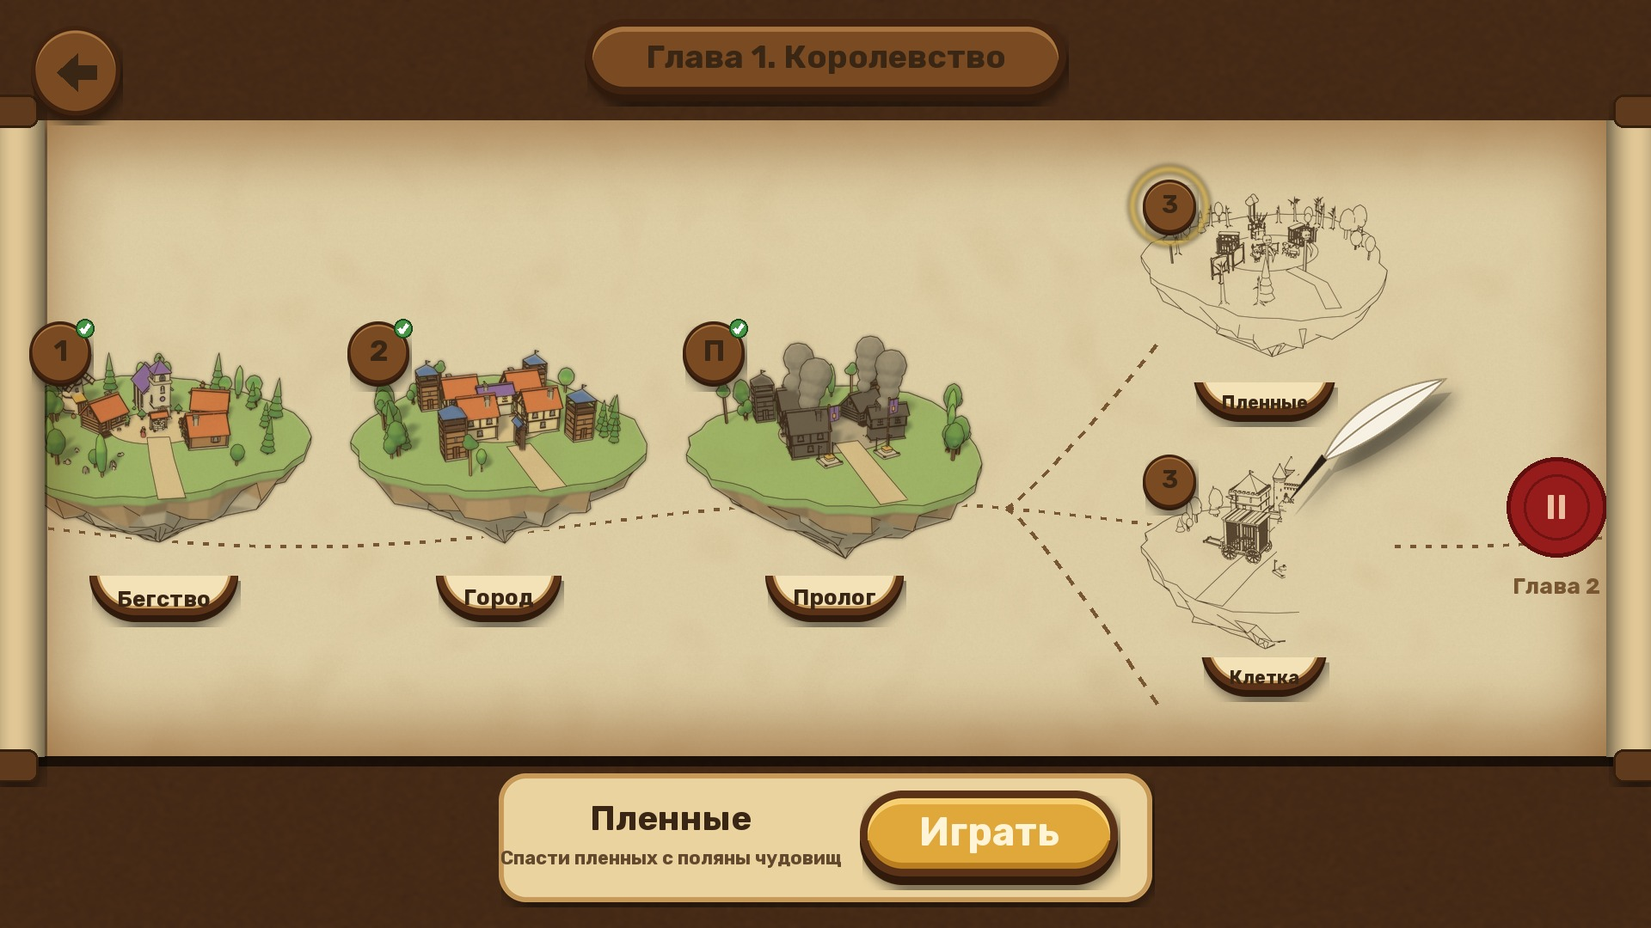
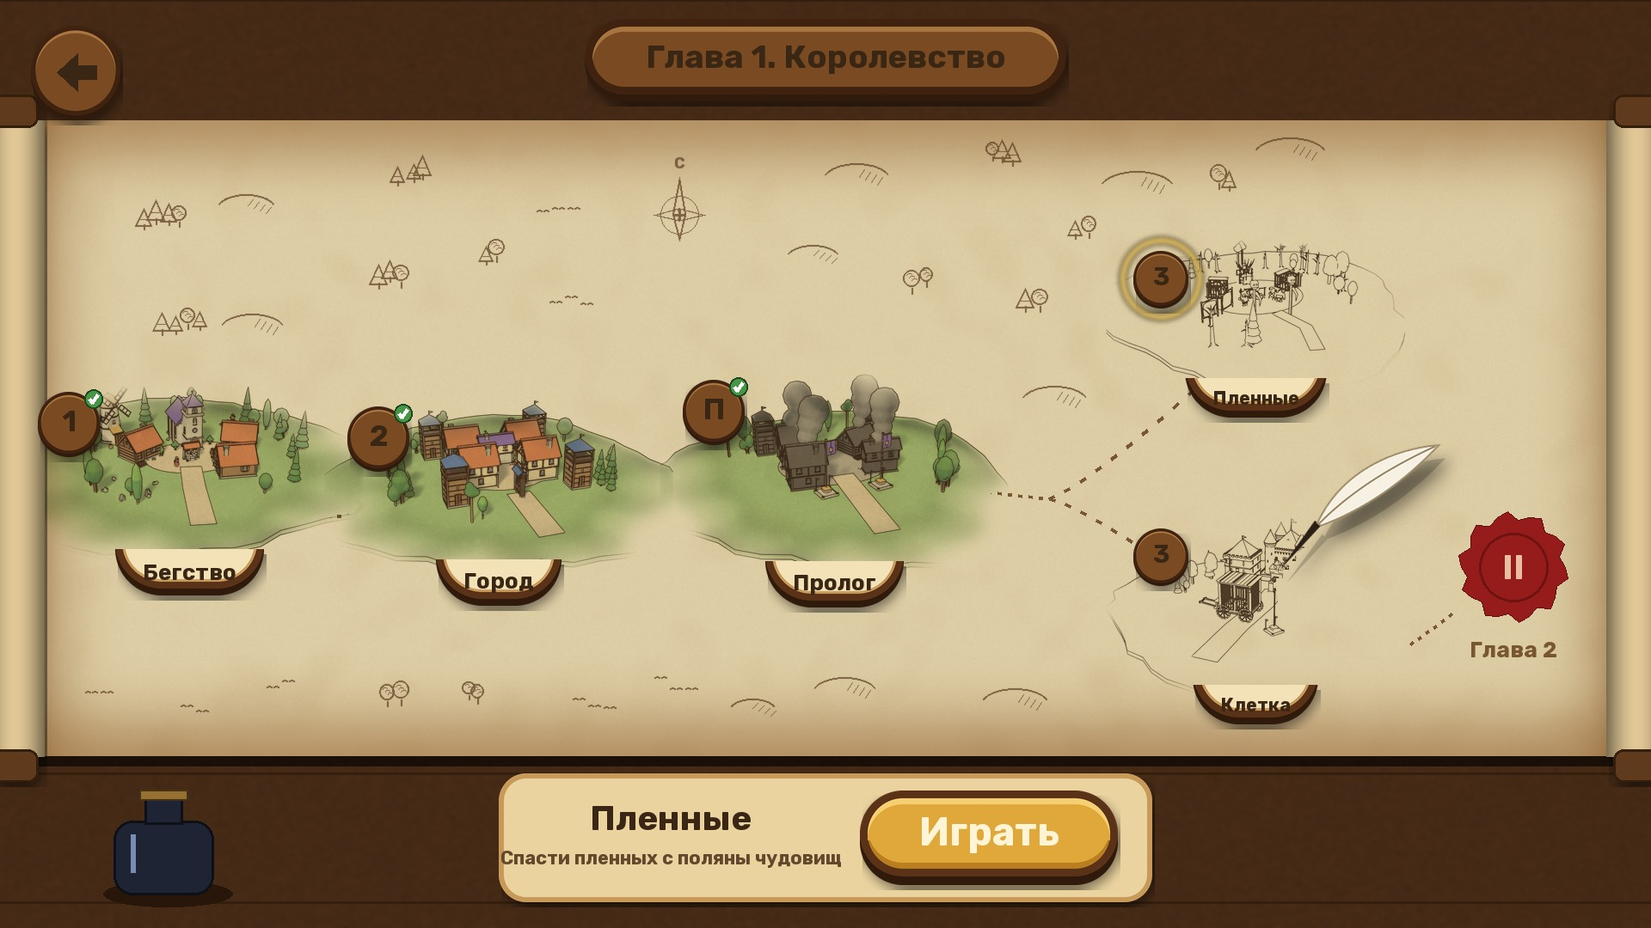
Campaign level picker: scroll concept v2 -- flat scenes bleeding into the parchment, watercolour + ink, doodles, seal, inkwell

diff --git a/Tools/campaign/campaign_levels_overlay.py b/Tools/campaign/campaign_levels_overlay.py
@@ -63,12 +63,11 @@ def text_c(d, xy, s, size, fill=INK):
     d.text((xy[0] - (r - l) / 2 - l, xy[1] - (b - t) / 2 - t), s, font=f, fill=fill)
 
 
-def load(ddir, key):
+def load(ddir, key, suffix=""):
     """The colour render (RGBA) and its ink twin, both cropped to the diorama."""
-    col = Image.open(os.path.join(ddir, f"campaign_{key}.png")).convert('RGBA')
-    ink = Image.open(os.path.join(ddir, f"campaign_{key}_ink.png")).convert('L')
+    col = Image.open(os.path.join(ddir, f"campaign_{key}{suffix}.png")).convert('RGBA')
+    ink = Image.open(os.path.join(ddir, f"campaign_{key}{suffix}_ink.png")).convert('L')
     box = col.getchannel('A').point(lambda a: 255 if a > 8 else 0).getbbox()
-    lines = ImageOps.invert(ink).crop(box)
     pad = 20
     box = (box[0] - pad, box[1] - pad, box[2] + pad, box[3] + pad)
     return col.crop(box), ImageOps.invert(ink).crop(box)
@@ -155,107 +154,215 @@ def rod(h):
     return im
 
 
-def watercolour(col, lines, paper):
-    """The colour render laid on the paper as a wash, then the ink over it."""
-    rgb = col.convert('RGB')
-    rgb = ImageEnhance.Color(rgb).enhance(0.85)
-    rgb = rgb.filter(ImageFilter.GaussianBlur(1.2))
-    rgb = Image.blend(rgb, Image.new('RGB', rgb.size, (255, 250, 235)), 0.18)
-    a = col.getchannel('A').filter(ImageFilter.GaussianBlur(2))
-    jitter = Image.effect_noise(col.size, 90).filter(ImageFilter.GaussianBlur(3))
-    a = ImageChops.multiply(a, jitter.point(lambda v: 255 if v > 70 else int(v * 3.2)))
-    washed = ImageChops.multiply(paper, rgb)
-    out = Image.composite(washed, paper, a)
-    return inked(out, lines)
+def fade_mask(size, seed, inner=0.62):
+    """An oval vignette with a ragged, wet-paper edge: the scene bleeds out into the parchment."""
+    w, h = size
+    rnd = random.Random(seed)
+    m = Image.new('L', size, 0)
+    d = ImageDraw.Draw(m)
+    steps = 24
+    for k in range(steps, 0, -1):          # concentric ragged ovals, brighter inwards
+        t = k / steps
+        rx, ry = w / 2 * (inner + (1 - inner) * t), h / 2 * (inner + (1 - inner) * t)
+        pts = []
+        for i in range(90):
+            a = i / 90 * 2 * math.pi
+            j = 1 + 0.05 * math.sin(a * 5 + seed) + 0.04 * math.sin(a * 11 + seed * 2) + rnd.uniform(-0.015, 0.015)
+            pts.append((w / 2 + math.cos(a) * rx * j, h / 2 + math.sin(a) * ry * j))
+        d.polygon(pts, fill=int(255 * (1 - t) ** 0.7 + 0.5) if k < steps else 0)
+    ImageDraw.Draw(m)
+    m = m.filter(ImageFilter.GaussianBlur(6))
+    core = Image.new('L', size, 0)              # the middle fully opaque
+    ImageDraw.Draw(core).ellipse((w * (0.5 - inner / 2), h * (0.5 - inner / 2), w * (0.5 + inner / 2), h * (0.5 + inner / 2)), fill=255)
+    m = ImageChops.lighter(m, core.filter(ImageFilter.GaussianBlur(20)))
+    grain = Image.effect_noise(size, 70).filter(ImageFilter.GaussianBlur(1.5))
+    return ImageChops.multiply(m, grain.point(lambda v: min(255, 150 + v)))
 
 
-def inked(paper, lines, upto=None):
-    l = lines
+def ink_layer(lines, mask, upto=None):
+    l = ImageChops.multiply(lines, mask.point(lambda v: min(255, v * 2)))
     if upto is not None:     # drawn only so far (left of x), a ragged edge
         m = Image.new('L', l.size, 0)
         d = ImageDraw.Draw(m)
-        for y in range(0, l.height, 6):
-            d.rectangle((0, y, upto + int(14 * math.sin(y / 23.0)) + random.randint(-6, 6), y + 6), fill=255)
+        for y in range(0, l.height, 5):
+            d.rectangle((0, y, upto + int(16 * math.sin(y / 19.0)) + random.randint(-5, 5), y + 5), fill=255)
         l = ImageChops.multiply(l, m)
-    ink = Image.new('RGB', paper.size, (52, 34, 18))
-    return Image.composite(ink, paper, l.point(lambda v: min(255, int(v * 1.25))))
+    return l.point(lambda v: min(255, int(v * 1.35)))
+
+
+def put_ink(paper, alpha, at, colour=(52, 34, 18)):
+    region = paper.crop((at[0], at[1], at[0] + alpha.width, at[1] + alpha.height))
+    region = Image.composite(Image.new('RGB', alpha.size, colour), region, alpha)
+    paper.paste(region, at)
+
+
+def wash(col, mask, paper_region):
+    """The colour render as a watercolour wash: flattened, softened, granulated, multiplied into the paper."""
+    rgb = col.convert('RGB').filter(ImageFilter.MedianFilter(5))
+    rgb = ImageEnhance.Color(rgb).enhance(0.8)
+    rgb = Image.blend(rgb, Image.new('RGB', rgb.size, (255, 248, 228)), 0.2)
+    gran = Image.effect_noise(col.size, 40).filter(ImageFilter.GaussianBlur(0.8))
+    rgb = ImageChops.multiply(rgb, Image.merge('RGB', [gran.point(lambda v: 225 + v // 8)] * 3))
+    washed = ImageChops.multiply(paper_region, rgb)
+    a = ImageChops.multiply(mask, col.getchannel('A'))
+    # the wash pools darker at its edge, as real watercolour dries
+    rim = ImageChops.subtract(a.filter(ImageFilter.GaussianBlur(3)), a.filter(ImageFilter.GaussianBlur(10)))
+    washed = ImageChops.multiply(washed, Image.merge('RGB', [ImageOps.invert(rim.point(lambda v: min(90, v * 2)))] * 3))
+    return Image.composite(washed, paper_region, a)
+
+
+def doodles(paper, keep_out, seed=4):
+    """Little ink drawings in the empty paper: tree clumps, hills, birds, a compass rose."""
+    rnd = random.Random(seed)
+    lay = Image.new('L', paper.size, 0)
+    d = ImageDraw.Draw(lay)
+
+    def free(x, y, r=40):
+        return all(keep_out.getpixel((min(max(int(x + dx), 0), paper.width - 1), min(max(int(y + dy), 0), paper.height - 1))) < 20
+                   for dx in (-r, 0, r) for dy in (-r, 0, r))
+
+    def tree(x, y, s):
+        if rnd.random() < 0.5:     # a pine
+            d.polygon([(x, y - 26 * s), (x - 10 * s, y - 4 * s), (x + 10 * s, y - 4 * s)], outline=255, width=2)
+            d.line((x - 6 * s, y - 12 * s, x + 6 * s, y - 12 * s), fill=255, width=1)
+        else:                      # a round tree
+            d.ellipse((x - 9 * s, y - 26 * s, x + 9 * s, y - 8 * s), outline=255, width=2)
+            for k in range(3):
+                d.arc((x - 6 * s + k * 3, y - 22 * s + k * 3, x + 2 * s + k * 3, y - 14 * s + k * 3), 200, 320, fill=255, width=1)
+        d.line((x, y - 6 * s, x, y), fill=255, width=2)
+
+    def hill(x, y, w):
+        d.arc((x - w, y - w * 0.5, x + w, y + w * 0.5), 200, 340, fill=255, width=2)
+        for k in range(4):        # hatching on the shady side
+            hx = x + w * 0.25 + k * 7
+            d.line((hx, y - w * 0.32 + k * 3, hx - 6, y - w * 0.1 + k * 3), fill=255, width=1)
+
+    used = []
+    for _ in range(400):
+        x, y = rnd.randint(60, paper.width - 260), rnd.randint(40, paper.height - 40)
+        if not free(x, y, 46) or any(math.hypot(x - ux, y - uy) < 90 for ux, uy in used):
+            continue
+        used.append((x, y))
+        kind = rnd.random()
+        if kind < 0.5:
+            for k in range(rnd.randint(2, 4)):
+                tree(x + k * 14 + rnd.randint(-3, 3), y + rnd.randint(-4, 4), rnd.uniform(0.8, 1.1))
+        elif kind < 0.82:
+            hill(x, y, rnd.randint(26, 44))
+        else:
+            for k in range(rnd.randint(2, 3)):     # birds
+                bx, by = x + k * 18, y + rnd.randint(-8, 8)
+                d.arc((bx - 8, by - 4, bx, by + 4), 200, 340, fill=255, width=2)
+                d.arc((bx, by - 4, bx + 8, by + 4), 200, 340, fill=255, width=2)
+    # the compass rose
+    cx, cy = 770, 110
+    for a, r in ((0, 44), (90, 30), (180, 30), (270, 30)):
+        rad = math.radians(a - 90)
+        tip = (cx + math.cos(rad) * r, cy + math.sin(rad) * r)
+        side1 = (cx + math.cos(rad + 1.57) * 8, cy + math.sin(rad + 1.57) * 8)
+        side2 = (cx + math.cos(rad - 1.57) * 8, cy + math.sin(rad - 1.57) * 8)
+        d.polygon([tip, side1, (cx, cy), side2], outline=255, width=2)
+    d.ellipse((cx - 22, cy - 22, cx + 22, cy + 22), outline=255, width=1)
+    text_c(d, (cx, cy - 60), "С", 18, fill=255)
+    put_ink(paper, lay.filter(ImageFilter.GaussianBlur(0.4)).point(lambda v: int(v * 0.75)), (0, 0), (92, 62, 34))
 
 
 def scroll(ddir, out):
     random.seed(7)
     base = Image.new('RGBA', (W, H), (0, 0, 0, 255))
-    # the table under the scroll: dark wood
+    # the table under the scroll: dark wood planks
     wood = Image.effect_noise((W // 4, H), 40).resize((W, H)).filter(ImageFilter.GaussianBlur(2))
     wood = ImageChops.multiply(Image.merge('RGB', [wood.point(lambda v: 150 + v // 3)] * 3), Image.new('RGB', (W, H), (92, 56, 30)))
+    wd = ImageDraw.Draw(wood)
+    for y in range(0, H, 150):
+        wd.line((0, y, W, y), fill=(52, 30, 14), width=3)
     base.paste(wood, (0, 0))
     top, bot = 140, 880
     ph = bot - top
     paper = parchment(W - 40, ph)
-    road = Image.new('L', paper.size, 0)
-    d0 = ImageDraw.Draw(road)
-    # the road between the scenes, dashed in ink
-    xs = [150, 520, 900, 1320]
-    path = []
-    for x in range(0, W - 40, 6):
-        y = 470 + 26 * math.sin(x / 210.0)
-        if x > 1180:
-            pass
-        path.append((x, y))
-    for i in range(0, len(path) - 1, 3):
-        d0.line((path[i], path[i + 1]), fill=255, width=4)
-    # the fork: two branches up and down to 3a / 3b
-    for sgn in (-1, 1):
-        pts = [(1150 + t * 7, 470 + 26 * math.sin((1150 + t * 7) / 210.0) + sgn * (t * 7) ** 1.15 * 0.55) for t in range(26)]
-        for i in range(0, len(pts) - 1, 2):
-            d0.line((pts[i], pts[i + 1]), fill=255, width=4)
-    scenes = [("level_1", 170, 400, 360, "done"), ("level_2", 560, 400, 360, "done"), ("prologue", 950, 400, 360, "done"),
-              ("level_3a", 1450, 200, 300, "open"), ("level_3b", 1450, 520, 300, "drawing")]
-    covered = Image.new('L', paper.size, 0)
+    scenes = [("level_1", 200, 410, 420, "done"), ("level_2", 560, 425, 420, "done"), ("prologue", 950, 410, 420, "done"),
+              ("level_3a", 1440, 230, 360, "open"), ("level_3b", 1440, 570, 360, "drawing")]
     meta = {k: (n, name, line) for k, n, name, line in LEVELS}
-    pen_at = None
+    keep = Image.new('L', paper.size, 0)
+    placed = []
     for key, cx, cy, w, state in scenes:
-        col, lines = load(ddir, key)
+        col, lines = load(ddir, key, "_flat")
         col, lines = fit(col, w), fit(lines.convert('RGB'), w).convert('L')
-        x0, y0 = cx - w // 2, cy - col.height // 2 - 20
-        region = paper.crop((x0, y0, x0 + w, y0 + col.height))
+        x0, y0 = cx - w // 2, cy - col.height // 2
+        placed.append((key, x0, y0, col, lines, state, fade_mask(col.size, sum(map(ord, key)))))
+        ImageDraw.Draw(keep).rectangle((x0 + 20, y0, x0 + w - 20, y0 + col.height + 70), fill=255)
+    ImageDraw.Draw(keep).ellipse((690, 30, 850, 190), fill=255)     # the compass rose
+    ImageDraw.Draw(keep).ellipse((1640, 410, 1840, 630), fill=255)  # the seal
+    # the road between the scenes: dashed ink, then the fork up and down, and on east to the seal
+    road = Image.new('L', paper.size, 0)
+    rd = ImageDraw.Draw(road)
+    main = [(x, 440 + 22 * math.sin(x / 190.0)) for x in range(0, 1200, 4)]
+    up = [(1200 + t * 6, main[-1][1] - (t * 6) ** 1.2 * 0.27) for t in range(40)]
+    dn = [(1200 + t * 6, main[-1][1] + (t * 6) ** 1.2 * 0.21) for t in range(40)]
+    east = [(1620 + t * 3, 610 - t * 2.2) for t in range(20)]
+    for line in (main, up, dn, east):
+        for i in range(0, len(line) - 2, 3):
+            rd.line((line[i], line[i + 1]), fill=255, width=4)
+    for key, x0, y0, col, lines, state, fm in placed:     # no road over a scene
+        hole = Image.new('L', paper.size, 0)
+        hole.paste(fm.point(lambda v: 255 if v > 60 else 0), (x0, y0))
+        road = ImageChops.subtract(road, hole)
+    put_ink(paper, road, (0, 0), (120, 86, 50))
+    doodles(paper, ImageChops.lighter(keep, road.filter(ImageFilter.MaxFilter(31))))
+    pen_at = None
+    for key, x0, y0, col, lines, state, fm in placed:
+        region = paper.crop((x0, y0, x0 + col.width, y0 + col.height))
         if state == "done":
-            pic = watercolour(col, lines, region)
+            region = wash(col, fm, region)
+            put_ink(region, ink_layer(lines, fm), (0, 0))
         elif state == "open":
-            pic = inked(region, lines)
+            put_ink(region, ink_layer(lines, fm), (0, 0))
         else:
-            upto = int(w * 0.58)
-            pic = inked(region, lines, upto)
-            pen_at = (x0 + upto + 20, y0 + col.height * 0.42)
-        paper.paste(pic, (x0, y0))
-        covered.paste(col.getchannel('A').filter(ImageFilter.MaxFilter(9)), (x0, y0))
-    road = ImageChops.subtract(road, covered)
-    paper = Image.composite(Image.new('RGB', paper.size, (120, 86, 50)), paper, road)
-    # the chapter to come: a blank with a wax seal, faded edge of the scroll
-    sx, sy = 1790, 450
-    ImageDraw.Draw(paper).ellipse((sx - 58, sy - 58, sx + 58, sy + 58), fill=(150, 28, 28), outline=(96, 14, 14), width=5)
-    ImageDraw.Draw(paper).ellipse((sx - 38, sy - 38, sx + 38, sy + 38), outline=(110, 18, 18), width=3)
-    text_c(ImageDraw.Draw(paper), (sx, sy), "II", 40, fill=(236, 190, 160))
-    text_c(ImageDraw.Draw(paper), (sx, sy + 92), "Глава 2", 26, fill=(120, 86, 50))
-    # paper on the table, with a shadow, and the rolled ends
+            upto = int(col.width * 0.6)
+            put_ink(region, ink_layer(lines, fm, upto), (0, 0))
+            pen_at = (x0 + upto + 10, y0 + col.height * 0.45)
+        paper.paste(region, (x0, y0))
+    # the chapter to come: a wax seal at the road's end
+    sx, sy = 1740, 520
+    pd = ImageDraw.Draw(paper)
+    blob = [(sx + math.cos(a / 30 * 6.283) * (60 + 6 * math.sin(a * 2.1)), sy + math.sin(a / 30 * 6.283) * (60 + 6 * math.sin(a * 2.1)))
+            for a in range(30)]
+    pd.polygon(blob, fill=(150, 28, 28), outline=(96, 14, 14))
+    pd.ellipse((sx - 40, sy - 40, sx + 40, sy + 40), outline=(110, 18, 18), width=3)
+    text_c(pd, (sx, sy), "II", 40, fill=(236, 190, 160))
+    text_c(pd, (sx, sy + 96), "Глава 2", 26, fill=(120, 86, 50))
+    # the scroll's curl: shade near both rolled ends
+    curl = Image.new('L', paper.size, 0)
+    cd = ImageDraw.Draw(curl)
+    for x in range(60):
+        v = int(110 * (1 - x / 60) ** 2)
+        cd.line((x, 0, x, ph), fill=v)
+        cd.line((paper.width - 1 - x, 0, paper.width - 1 - x, ph), fill=v)
+    paper = Image.composite(Image.new('RGB', paper.size, (90, 58, 28)), paper, curl)
     p = paper.convert('RGBA')
     shadow(base, p, (20, top), blur=14, alpha=160, off=(0, 12))
     r = rod(ph)
     shadow(base, r, (-18, top - 30), blur=8)
     shadow(base, r, (W - 52, top - 30), blur=8)
     d = ImageDraw.Draw(base)
-    # medals and plaques under each scene
-    for key, cx, cy, w, state in scenes:
+    # an inkwell on the table, bottom left
+    ix, iy = 190, 985
+    d.ellipse((ix - 70, iy + 40, ix + 80, iy + 70), fill=(40, 22, 10))
+    d.rounded_rectangle((ix - 58, iy - 30, ix + 58, iy + 56), 22, fill=(30, 36, 52), outline=(14, 16, 24), width=3)
+    d.rectangle((ix - 22, iy - 58, ix + 22, iy - 26), fill=(30, 36, 52), outline=(14, 16, 24), width=3)
+    d.rectangle((ix - 28, iy - 66, ix + 28, iy - 54), fill=(150, 112, 50), outline=(70, 50, 20), width=2)
+    d.line((ix - 36, iy - 14, ix - 36, iy + 30), fill=(120, 140, 180), width=6)
+    # medals and plaques on each scene
+    for key, x0, y0, col, lines, state, fm in placed:
         n, name, _l = meta[key]
         small = key in ("level_3a", "level_3b")
-        y = cy + (130 if not small else 105) + top
-        mx = max(70, cx + 20 - w // 2 + 40)
-        medal(base, d, mx, cy + top - (130 if not small else 100), n, 72 if not small else 62,
-              done=state == "done", picked=key == "level_3a")
-        plaque(base, d, cx + 20, y, name, 26 if not small else 22)
+        cx = x0 + col.width // 2 + 20
+        medal(base, d, x0 + 90, y0 + top + 50, n, 64 if small else 72, done=state == "done", picked=key == "level_3a")
+        plaque(base, d, cx, y0 + top + col.height - (26 if small else 20), name, 22 if small else 26)
     if pen_at:
         pen = Image.open(PEN).convert('RGBA')
         pen = pen.resize((pen.width // 2, pen.height // 2), Image.LANCZOS).rotate(-28, expand=True, resample=Image.BICUBIC)
-        shadow(base, pen, (int(pen_at[0]) + 20 - 30, int(pen_at[1]) + top - pen.height + 30), blur=8, off=(14, 18))
+        shadow(base, pen, (int(pen_at[0]) - 10, int(pen_at[1]) + top - pen.height + 30), blur=8, off=(14, 18))
     hud(base, d, "Глава 1. Королевство", LEVELS[3])
     base.convert('RGB').save(out, quality=92)
     print('saved', out)
@@ -349,5 +456,7 @@ if __name__ == '__main__':
     ddir, odir = sys.argv[1], sys.argv[2]
     os.makedirs(odir, exist_ok=True)
     scroll(ddir, os.path.join(odir, 'scroll.jpg'))
+    if 'scroll' in sys.argv[3:]:
+        sys.exit(0)
     carousel(ddir, os.path.join(odir, 'carousel.jpg'), 'prologue')
     carousel(ddir, os.path.join(odir, 'carousel2.jpg'), 'level_3a')

diff --git a/Tools/blender/campaign_dioramas.py b/Tools/blender/campaign_dioramas.py
@@ -18,7 +18,8 @@ from mathutils import Vector
 
 argv = sys.argv[sys.argv.index("--") + 1:]
 OUT, MODELS, CART = argv[0], argv[1], argv[2]
-ONLY = argv[3:]
+FLAT = "flat" in argv[3:]          # the scroll's picture: only the ground, no floating rock (fades into the paper)
+ONLY = [a for a in argv[3:] if a != "flat"]
 sc = bpy.context.scene
 for o in list(sc.objects):
     bpy.data.objects.remove(o, do_unlink=True)
@@ -82,8 +83,11 @@ def island(coll, cx, R, seed):
     rnd = random.Random(seed)
     n = 48
     wob = [1 + 0.07 * math.sin(i / n * 2 * math.pi * 3 + seed) + rnd.uniform(-0.03, 0.03) for i in range(n)]
-    rings = [(1.0, 0.0, GRASS), (1.0, -0.35, LIP), (0.97, -0.55, EARTH), (0.88, -1.5, EARTH), (0.80, -2.0, ROCK),
-             (0.58, -3.2, ROCK), (0.34, -4.6, ROCK), (0.14, -5.9, ROCK)]
+    if FLAT:
+        rings = [(1.3, 0.0, GRASS), (1.3, -0.2, GRASS)]
+    else:
+        rings = [(1.0, 0.0, GRASS), (1.0, -0.35, LIP), (0.97, -0.55, EARTH), (0.88, -1.5, EARTH), (0.80, -2.0, ROCK),
+                 (0.58, -3.2, ROCK), (0.34, -4.6, ROCK), (0.14, -5.9, ROCK)]
     bm = bmesh.new()
     loops = []
     for k, (s, z, _m) in enumerate(rings):
@@ -100,7 +104,7 @@ def island(coll, cx, R, seed):
         for i in range(n):
             f = bm.faces.new((loops[k][i], loops[k][(i + 1) % n], loops[k + 1][(i + 1) % n], loops[k + 1][i]))
             f.material_index = mi
-    tip = bm.verts.new((cx + rnd.uniform(-0.3, 0.3), rnd.uniform(-0.3, 0.3), -7.2))
+    tip = bm.verts.new((cx + rnd.uniform(-0.3, 0.3), rnd.uniform(-0.3, 0.3), -0.3 if FLAT else -7.2))
     for i in range(n):
         f = bm.faces.new((loops[-1][i], loops[-1][(i + 1) % n], tip))
         f.material_index = 3
@@ -360,7 +364,7 @@ for key, coll, cx in LEVELS:
     base = key.lstrip("#")
     for ink in (False, True):
         ink_setup(ink)
-        sc.render.filepath = os.path.join(OUT, base + ("_ink" if ink else "") + ".png")
+        sc.render.filepath = os.path.join(OUT, base + ("_flat" if FLAT else "") + ("_ink" if ink else "") + ".png")
         bpy.ops.render.render(write_still=True)
     print("DIORAMA", base)
 print("DIORAMAS DONE")

diff --git a/.claude/memory/MEMORY.md b/.claude/memory/MEMORY.md
@@ -76,7 +76,7 @@
 - [Do every item, verify where it lands](feedback_do_every_item.md) — user angry 2026-11-06: a fix went into the wrong function; check each list item in the real code path.
 - [Playtest list 2026-11-10](project_pending_2026_11_10.md) — 16 phone items: notices 4 s, orc-base FPS+ravens, fog culling of everything, starving leave one by one, selection buttons, food bonus preview, fisher (more in file)
 - [Localization fit before release](feedback_localization_fit_before_release.md) — pre-release: check every language's texts fit their boxes.
-- [Campaign mode (2026-11-10)](project_campaign.md) — cutscenes+story+levels; missions 1-2 built; level 3 prologue BUILT (not seen); mission 3b «Клетка»: opening scene ALL APPROVED; playable in Unity since 2026-11-23, 2 playtests fixed (2nd not seen); 3b agency directions offered (the user thinking); 3D campaign island: concept 1 picked, strip + level placement proposed, then the user asked for other picker formats: ink scroll + diorama carousel concepts sent 2026-11-24; «чудовища» not «орки» in campaign texts
+- [Campaign mode (2026-11-10)](project_campaign.md) — cutscenes+story+levels; missions 1-2 built; level 3 prologue BUILT (not seen); mission 3b «Клетка»: opening scene ALL APPROVED; playable in Unity since 2026-11-23, 2 playtests fixed (2nd not seen); 3b agency directions offered (the user thinking); 3D campaign island: concept 1 picked, strip + level placement proposed, then the user asked for other picker formats: ink scroll + diorama carousel concepts sent; SCROLL chosen to refine (v2 sent), carousel parked; «чудовища» not «орки» in campaign texts
 - [Mission 1 playtest 2026-11-11](project_pending_2026_11_11_mission1.md) — the user's first Unity playtest of mission 1: 26 items (loading screen, orcs stuck, darkness corridor, red eye, Ардан icon, music, mage at bridge (more in file)
 - [Mission 1 playtest 2 (2026-11-11)](project_pending_2026_11_11b_mission1.md) — second Unity playtest, 17 items -- ALL BUILT round 58 (church trio, start after 1 m, kill, forest orcs, sandbox HUD kit, run clock + records (more in file)
 - [Feature cards](feedback_feature_cards.md) — project split into Design/features cards (2026-10-21): read the index, then one card; update cards after every task.

diff --git a/Design/features/campaign.md b/Design/features/campaign.md
@@ -234,6 +234,13 @@
   <models.blend> <cart.fbx> [keys]` (game models on a grass disc over earth+rock, colour render + a Freestyle
   ink twin of the same view); screens: `Tools/campaign/campaign_levels_overlay.py <diorama dir> <out dir>`.
   Waiting for the user's pick.
+- **The SCROLL picked to work on (2026-11-24, «пока что доработай вариант свитка, карусель возможно вставим
+  позже»):** v2 `scroll.jpg` -- the scenes have NO floating rock any more (dioramas rendered with `flat`: only a
+  wide grass disc) and bleed into the parchment through a ragged oval vignette; done scenes = a real-looking
+  watercolour wash (flattened, granulated, darker drying rim) + ink; open/drawing scenes = ink only; ink doodles in
+  the empty paper (tree clumps, hills with hatching, birds, a compass rose), the dashed road under the scenes with
+  the fork to 3a/3b and on east to the wax seal «Глава 2», shading where the paper curls into the rods, an inkwell on
+  the table. The carousel is parked («возможно вставим позже»). Not in Unity; waiting for the user's notes.
 - The way in: tap the campaign banner -> the loading screen -> the CAMPAIGN MAP -> tap a level point
   -> «Играть» lights up bottom centre -> the level (no separate confirmation window: the user's choice).
 - The map: a 2D painted PARCHMENT chart in the loading screen's lightly coloured look (the user's pick

diff --git a/.claude/memory/project_campaign.md b/.claude/memory/project_campaign.md
@@ -127,3 +127,4 @@ Related: [[project-tutorial]], [[project-invasion-mode]], [[project-monetization
 2026-11-24 (later): the user PICKED concept 1 (one island) and wants levels LEFT TO RIGHT with the map scrolled right; an EMPTY long strip island made (islands.py kind `campaign`, Blender/Islands/Isl-campaign1.blend, renders strip_*.jpg in Design/concepts/campaign_island) and sent. Next: the user decides where the levels go. Not in Unity.
 2026-11-24 (later 2): levels as symbolic buildings on the strip PROPOSED and sent (village 1 -> walled town 2 + King's banners = prologue -> fork: 3a orc glade north, 3b cage cart on the road to the capital; east under clouds). Renders levels_*.jpg. Waiting for the user's word.
 2026-11-24 (later 3): the user disliked the look of the level spots and asked for OTHER picker formats; 5 offered, the user asked for 1 (ink-pen scroll) and 3 (carousel of floating island dioramas); both SENT as screens (Design/concepts/campaign_levels/scroll.jpg, carousel*.jpg; tools campaign_dioramas.py + campaign_levels_overlay.py). Waiting for the pick. Not in Unity.
+2026-11-24 (later 4): the user chose to work on the SCROLL (carousel parked, «возможно вставим позже»); scroll v2 sent: flat scenes bleeding into the parchment, watercolour+ink, ink doodles, compass, seal, inkwell. Waiting for notes.
